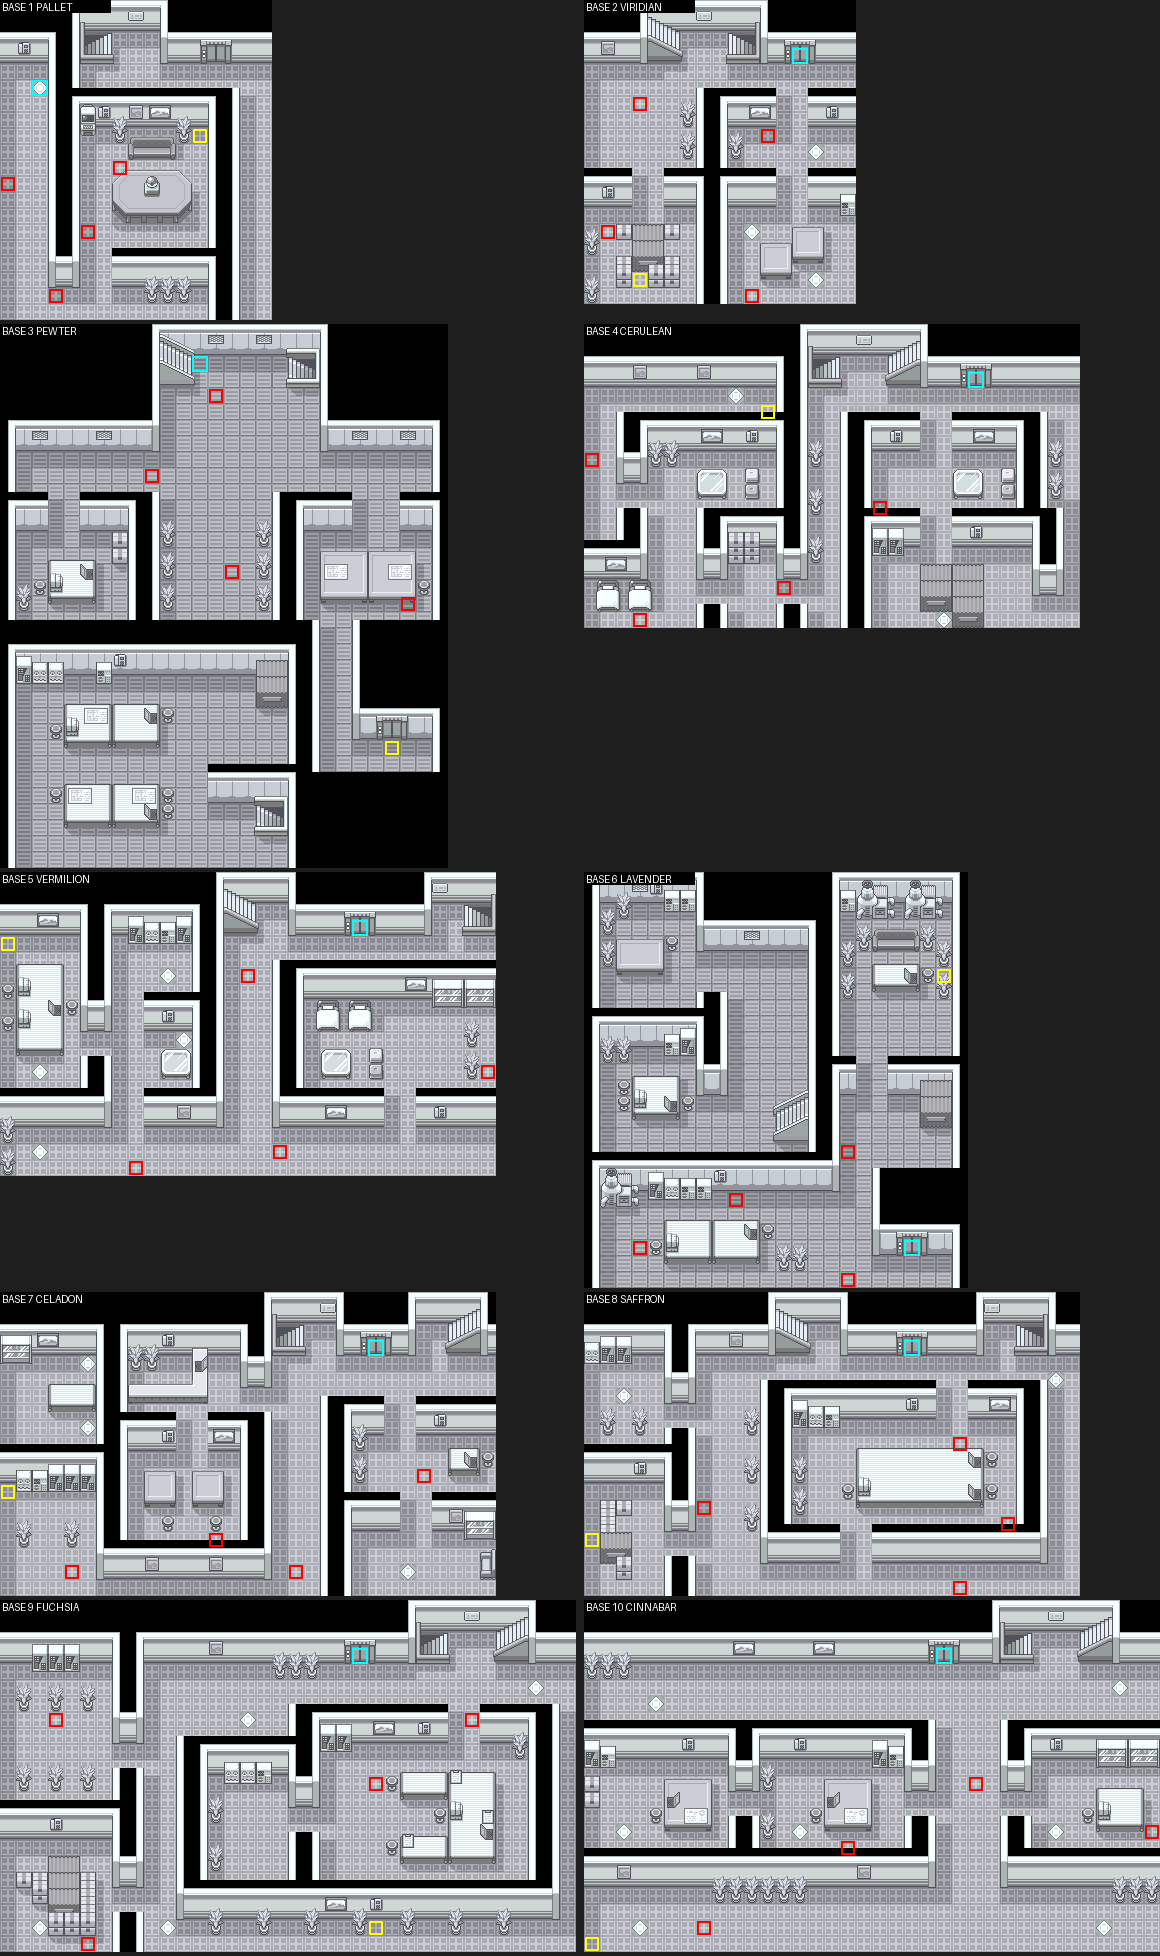
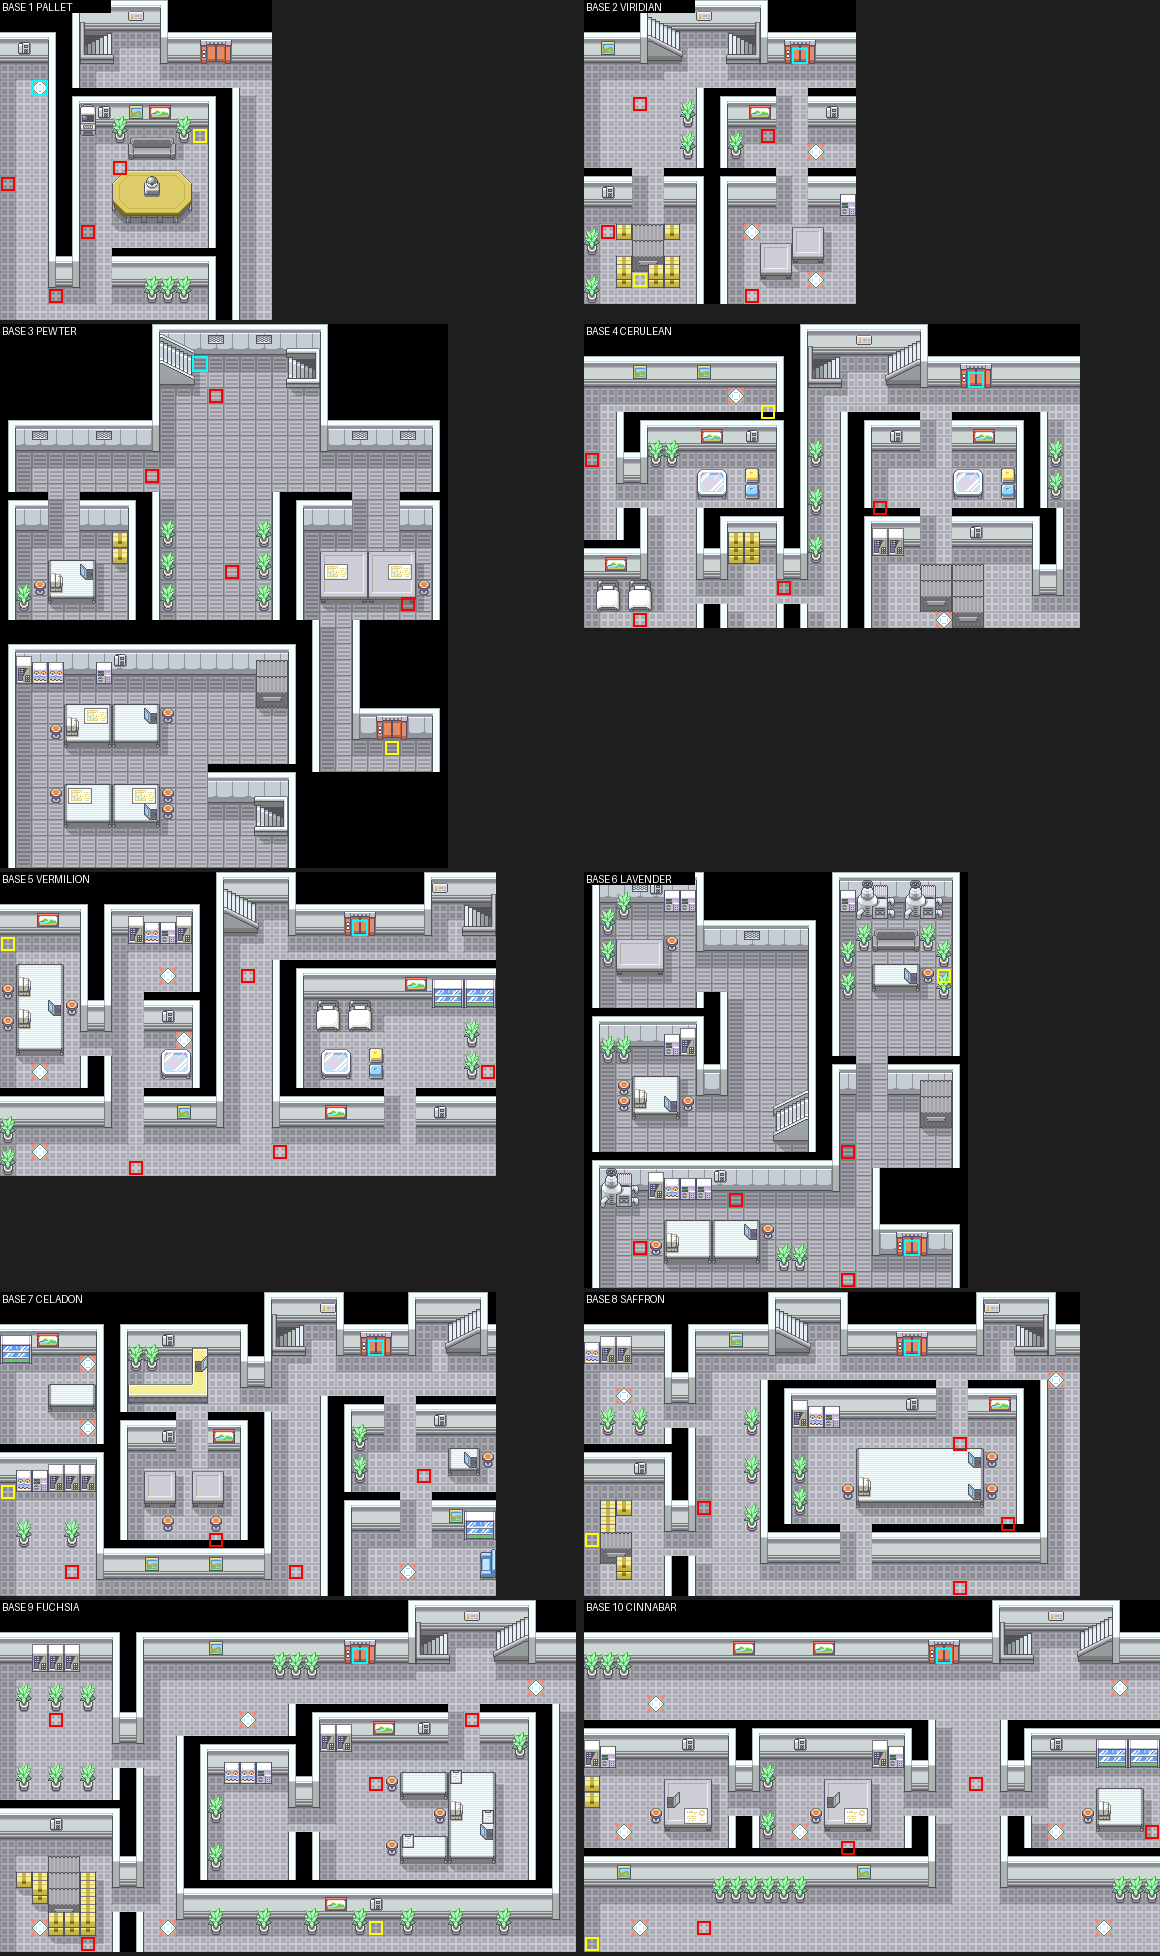
Base interiors: only floor and wall tiles are grey, objects keep their colours
Claude-Session: https://claude.ai/code/session_015nEfgJT3e5PVbLb1PVBxS1

diff --git a/army/build/army_tail.py b/army/build/army_tail.py
@@ -1,0 +1,232 @@
+# ----------------------------------------------------------------------------------------------- the base interior (grey clone of a Rocket Hideout / Silph Co floor)
+def grey(c):
+    rr,g,b=[v/31 for v in c]; y=0.30*rr+0.59*g+0.11*b
+    return tuple(max(0,min(31,int(round(t*31)))) for t in (y*0.98,y,y*1.03))
+STATE=dict(NL=392,NUM=69,grey={})
+def grey_secondary(r,S):
+    """one shared grey copy of the Hideout / Silph secondary tileset"""
+    if S in STATE['grey']: return STATE['grey'][S]
+    b=r.b; spal=r32(r,S+8)-0x08000000
+    pal=bytearray(b[spal:spal+512])
+    for p in range(7,13):
+        for i in range(1,16):
+            v=struct.unpack('<H',pal[32*p+2*i:32*p+2*i+2])[0]
+            cr,cg,cb=grey((v&31,(v>>5)&31,(v>>10)&31)); pal[32*p+2*i:32*p+2*i+2]=struct.pack('<H',cr|(cg<<5)|(cb<<10))
+    pa=r.alloc(bytes(pal),4)
+    H=bytearray(b[S:S+24]); H[8:12]=struct.pack('<I',0x08000000+pa); sec=r.alloc(bytes(H),4)
+    STATE['grey'][S]=sec; return sec
+def grey_primary(r,P):
+    """shared grey copy of the indoor primary tileset (palettes 0-6), so elevator doors, plants and the like are grey too"""
+    key=('P',P)
+    if key in STATE['grey']: return STATE['grey'][key]
+    b=r.b; pp=r32(r,P+8)-0x08000000
+    pal=bytearray(b[pp:pp+7*32])
+    for p in range(7):
+        for i in range(1,16):
+            v=struct.unpack('<H',pal[32*p+2*i:32*p+2*i+2])[0]
+            cr,cg,cb=grey((v&31,(v>>5)&31,(v>>10)&31)); pal[32*p+2*i:32*p+2*i+2]=struct.pack('<H',cr|(cg<<5)|(cb<<10))
+    pa=r.alloc(bytes(pal),4)
+    H=bytearray(b[P:P+24]); H[8:12]=struct.pack('<I',0x08000000+pa); new=r.alloc(bytes(H),4)
+    STATE['grey'][key]=new; return new
+def build_base_map(r,src_n,objects,warps,mapsec,name):
+    b=r.b
+    src=header(r,1,src_n); slay=r32(r,src)-0x08000000
+    S=r32(r,slay+20)-0x08000000
+    sec=grey_secondary(r,S)
+    lay=bytearray(b[slay:slay+28]); lay[20:24]=struct.pack('<I',0x08000000+sec); assert bytes(lay[24:26])==bytes([2,2]),lay[24:28].hex()
+    lay=r.alloc(bytes(lay),4)
+    ob=b''.join(bytes(t) for t in objects); oa=r.alloc(ob,4)
+    wb=b''.join(struct.pack('<hhBBBB',*w) for w in warps); wa=r.alloc(wb,4)
+    ev=r.alloc(bytes([len(objects),len(warps),0,0])+struct.pack('<IIII',0x08000000+oa,0x08000000+wa,0,0),4)
+    ms=r.alloc(b'\x00',1)
+    hb=bytearray(b[src:src+28]); hb[0:4]=struct.pack('<I',0x08000000+lay); hb[4:8]=struct.pack('<I',0x08000000+ev); hb[8:12]=struct.pack('<I',0x08000000+ms); hb[12:16]=bytes(4)
+    LT=r32(r,0x55194)-0x08000000; NL=STATE['NL']
+    for k in (383,391): lp=r32(r,LT+4*k)-0x08000000; assert 4<=r32(r,lp)<=60,k
+    tab=r.alloc(bytes(b[LT:LT+4*NL])+struct.pack('<I',0x08000000+lay),4); r.w32(0x55194,0x08000000+tab)
+    hb[18:20]=struct.pack('<H',NL+1); STATE['NL']=NL+1
+    if STATE['NL']==393: r.w32(0x3f1cac+4*(mapsec-0x58),0x08000000+r.alloc(leg1.enc(name),1))
+    hb[20]=mapsec; hb[0x1a]=100; hb[25]|=0x04
+    hdr=r.alloc(bytes(hb),4)
+    g2=r32(r,GROUPS+8)-0x08000000; num=STATE['NUM']
+    for k in (60,num-1): hp=r32(r,g2+4*k)-0x08000000; assert 0x08000000<=r32(r,hp)<0x0a000000,k
+    ntab=r.alloc(bytes(b[g2:g2+4*num])+struct.pack('<I',0x08000000+hdr),4); r.w32(GROUPS+8,0x08000000+ntab)
+    STATE['NUM']=num+1
+    return 2,num
+def best_entry(r,src_n):
+    """the source warp whose surroundings give the biggest walkable floor: that tile becomes the base's entrance"""
+    import reach
+    d=bytes(r.b); h=header(r,1,src_n); ev=r32(r,h+4)-0x08000000; wp=r32(r,ev+8)-0x08000000
+    ws=[struct.unpack('<hhBBBB',r.b[wp+8*i:wp+8*i+8])[:2] for i in range(r.b[ev+1])]
+    best=None
+    for w in ws:
+        s,_=reach.reach(d,1,src_n,w)
+        if best is None or len(s)>len(best[1]): best=(w,s)
+    return best[0],ws
+# ----------------------------------------------------------------------------------------------- events helpers
+def add_coord(r,g,n,x,y,script):
+    h=header(r,g,n); ev=r32(r,h+4)-0x08000000; nc=r.b[ev+2]
+    old=b''
+    if nc: cp=r32(r,ev+12)-0x08000000; old=bytes(r.b[cp:cp+16*nc])
+    new=r.alloc(old+struct.pack('<HHBBHHHI',x,y,3,0,0x40E3,0,0,script),4); r.b[ev+2]=nc+1; r.w32(ev+12,0x08000000+new)   # var 0x40E3 stays 0, so the event always runs (trigger 0 would run the script in the wrong context)
+def door_lock_script(r,item,need):
+    """stepping on the tile in front of the door without the previous base's medal: refused and pushed back"""
+    S=SB(); S.lockall()
+    S.raw(0x47); S._add(struct.pack('<HH',item,1))                  # checkitem
+    S.compare(0x800D,1); S.goto_if(1,'open')
+    S.msg(TXT(r,"The door is locked. A plate beside it reads:\n\nJRA MEDAL %d REQUIRED."%need),4)
+    S.applymovement(0xff,0x08000000+r.alloc(bytes([0x10,0xfe]),1)); S.waitmovement(0xff); S.releaseall(); S.end()
+    S.lab('open'); S.releaseall(); S.end()
+    return 0x08000000+put_script(r,S)
+def patrol_tiles(r,g,n,start,keep_out,k=2,seed='p'):
+    """two open lawn tiles reachable from `start` for the patrol templates (the native moves them to a random spot at every visit anyway)"""
+    import reach,random
+    d=bytes(r.b); seen,(w,h)=reach.reach(d,g,n,start)
+    _,_,grid,beh,objs=reach.load(d,g,n)
+    ok=[p for p in sorted(seen) if 2<=p[0]<w-2 and 2<=p[1]<h-2 and all(((grid[p[1]+j][p[0]+i]>>10)&3)==0 and (grid[p[1]+j][p[0]+i]>>12)==3 for i in (-1,0,1) for j in (-1,0,1))
+        and not any(abs(p[0]-a)<=3 and abs(p[1]-b)<=3 for a,b in keep_out)]
+    rng=random.Random(seed); rng.shuffle(ok); out=[]
+    for p in ok:
+        if all(abs(p[0]-q[0])+abs(p[1]-q[1])>=6 for q in out): out.append(p)
+        if len(out)==k: break
+    assert len(out)==k,'no patrol tiles'
+    return out
+# ----------------------------------------------------------------------------------------------- exterior sites (all bases use the same grey house, grafted into the town's tileset)
+HOUSE=(32,8,5,4)           # Pewter's house (x,y,w,h); door at column 1 of the bottom row
+# bx,by = top left of the house; yg = the approach row below it. ground = tile whose block fills cleared land. carve = corridor rectangles, clear = open land, guards = (x,y,facing), start = a tile on the existing town road
+EXT={
+ 'PALLET':   dict(ext=14,ground=(18,17),carve=[(22,17,36,18)],clear=[(24,12,35,16)],bx=28,by=13,guards=[(27,17,10),(33,17,9)],sign=(34,17),start=(21,17),evac=(12,11)),
+ 'VIRIDIAN': dict(ext=8, ground=(36,14),carve=[(42,20,52,21)],clear=[(42,15,52,19)],bx=45,by=16,guards=[(44,20,10),(50,20,9)],sign=(51,20),start=(41,20)),
+ 'CERULEAN': dict(ext=14,ground=(39,14),carve=[],clear=[(48,13,57,17)],bx=50,by=14,guards=[(49,18,10),(55,18,9)],sign=(56,18),start=(46,18)),
+ 'VERMILION':dict(ext=12,ground=(35,15),carve=[],clear=[(48,13,57,17)],bx=50,by=14,guards=[(49,18,10),(55,18,9)],sign=(56,18),start=(46,18)),
+ 'LAVENDER': dict(ext=14,ground=(20,13),carve=[(22,13,34,14)],clear=[(24,8,34,12)],bx=27,by=9,guards=[(26,13,10),(32,13,9)],sign=(33,13),start=(21,13)),
+ 'CELADON':  dict(ext=12,ground=(46,16),carve=[],clear=[(60,7,70,11)],bx=62,by=8,guards=[(61,12,10),(67,12,9)],sign=(68,12),start=(56,13)),
+ 'SAFFRON':  dict(ext=0, ground=(11,25),carve=[],clear=[],bx=9,by=21,guards=[(10,28,7),(13,26,9)],sign=(9,26),start=(13,27)),
+ 'FUCHSIA':  dict(ext=0, ground=(34,17),carve=[],clear=[],bx=35,by=13,guards=[(34,17,10),(40,17,9)],sign=(33,17),start=(34,18)),
+ 'CINNABAR': dict(ext=0, ground=(11,14),carve=[],clear=[],bx=10,by=16,guards=[(9,20,10),(15,20,9)],sign=(16,20),start=(12,13),insert=(15,10,[14])),
+}
+def carve_exterior(r,c,house):
+    """rebuilds the town map for city c: extension, cleared land, the grafted house, tileset; returns door tile, front tile, door warp index placeholder"""
+    g,n=3,c['town']; e=EXT[c['name']]
+    ts=army_tiles.Tileset(r,g,n)
+    gv=army_sites.get_block(r,g,n,*e['ground'])
+    if e['ext']: army_sites.extend_right(r,g,n,e['ext'])
+    if e.get('insert'): army_sites.insert_rows(r,g,n,*e['insert'])
+    for (x0,y0,x1,y1) in e['carve']+e['clear']: army_sites.fill(r,g,n,x0,y0,x1,y1,gv)
+    if e.get('evac'): ts.evacuate(*e['evac'])
+    slot=ts.free_slot(); assert slot,'no free palette slot in '+c['name']
+    blocks=house.graft(ts,slot)
+    for j,row in enumerate(blocks):
+        for i,v in enumerate(row): army_sites.set_block(r,g,n,e['bx']+i,e['by']+j,v)
+    ts.commit()
+def place_lot_objects(r,c,e,fns,gf,item_by_num,cleared,ids,base_num,base_map):
+    """door warp, lock, guards, sign, patrols in the town map; returns patrol ids"""
+    g,n=3,c['town']; G_SOLDIER,G_CAPTAIN,G_SPLAT=gf; nm=army_text.SURNAMES[8*c['idx']:8*c['idx']+8]
+    door=(e['bx']+1,e['by']+3); front=(e['bx']+1,e['by']+4)
+    dw=add_warp(r,g,n,door[0],door[1],0,base_num,2)
+    if c['num']>1: add_coord(r,g,n,front[0],front[1],door_lock_script(r,item_by_num[c['num']-1],c['num']-1))
+    guard_ids,pat_ids=ids[7:9],ids[5:7]
+    for k,(gx,gy,mv) in enumerate(e['guards']):
+        a,b,cc=army_text.lines('guard',guard_ids[k],c['name'],c['num'],c['captain'])
+        make_trainer(r,guard_ids[k],CLS_SOLDIER,PIC_SOLDIER,nm[6+k],gen_team(c,'soldier',guard_ids[k]))
+        add_obj(r,g,n,obj_tmpl(G_SOLDIER,gx,gy,soldier_script(r,guard_ids[k],a,b,cc),mv,1,4,cleared))
+    add_sign(r,g,n,e['sign'][0],e['sign'][1],0x3402,"JOHTO REVOLUTIONARY ARMY\nBASE NO. %d\n%s\n\nPEACE THROUGH CONQUEST!"%(c['num'],c['name']))
+    return dw,door,front
+def install_city(r,fns,gf,c,house,item_by_num):
+    import reach
+    b=r.b; idx=c['idx']; ids=ID_POOL[IDS_PER_CITY*idx:IDS_PER_CITY*idx+IDS_PER_CITY]
+    base_ids,cap_id,pat_ids,guard_ids=ids[0:4],ids[4],ids[5:7],ids[7:9]
+    cleared=FLAG_CLEARED0+idx; G_SOLDIER,G_CAPTAIN,G_SPLAT=gf
+    nm=army_text.SURNAMES[8*idx:8*idx+8]; g,n=3,c['town']
+    medal_name='JRA MEDAL %d'%c['num']
+    nxt=[x['name'] for x in CITIES if x['num']==c['num']+1]; nxt=nxt[0] if nxt else None
+    # trainers
+    for k,tid in enumerate(base_ids): make_trainer(r,tid,CLS_SOLDIER,PIC_SOLDIER,nm[k],gen_team(c,'soldier',tid))
+    make_trainer(r,cap_id,CLS_CAPTAIN,PIC_CAPTAIN,c['captain'],gen_team(c,'captain',cap_id))
+    for k,tid in enumerate(pat_ids): make_trainer(r,tid,CLS_SOLDIER,PIC_SOLDIER,nm[4+k],gen_team(c,'soldier',tid))
+    base_sc=[soldier_script(r,base_ids[i],*army_text.lines('base',base_ids[i],c['name'],c['num'],c['captain'])) for i in range(4)]
+    ci,cd,cw,ca=army_text.captain_lines(c['name'],c['captain'],c['num'],nxt)
+    cap_sc=captain_script(r,cap_id,cleared,c['item'],ci,cd,cw,ca,medal_name,c['name'])
+    pat_sc=[soldier_script(r,pat_ids[i],*army_text.lines('pat',pat_ids[i],c['name'],c['num'],c['captain'])) for i in range(2)]
+    # interior
+    if c['name']=='PEWTER':
+        objs=[obj_tmpl(G_SOLDIER,13,4,base_sc[0],8,1,4,cleared),obj_tmpl(G_SOLDIER,9,9,base_sc[1],10,1,4,cleared),
+              obj_tmpl(G_SOLDIER,14,15,base_sc[2],8,1,4,cleared),obj_tmpl(G_SOLDIER,25,17,base_sc[3],9,1,4,cleared),
+              obj_tmpl(G_CAPTAIN,24,26,cap_sc,9,1,4,cleared)]
+        entry=(12,2); warps_src=[(12,2)]
+    else:
+        entry,warps_src=best_entry(r,c['src'])
+        sold,cap=army_sites.plan_interior(bytes(r.b),1,c['src'],entry,warps_src,4,c['name'])
+        objs=[obj_tmpl(G_SOLDIER,p[0],p[1],base_sc[i],mv,1,4,cleared) for i,(p,mv) in enumerate(sold)]+[obj_tmpl(G_CAPTAIN,cap[0][0],cap[0][1],cap_sc,cap[1],1,4,cleared)]
+    for i,t in enumerate(objs): t[0]=i+1
+    # town door warp index is known before the map: it is the next warp index of the town
+    ph=header(r,g,n); pev=r32(r,ph+4)-0x08000000; DW=r.b[pev+1]
+    bg,bn=build_base_map(r,c['src'],objs,[(entry[0],entry[1],0,DW,n,g)],0xab,'JRA MILITARY BASE')
+    # the town
+    e=EXT.get(c['name'])
+    if c['name']=='PEWTER':
+        ts=army_tiles.Tileset(r,3,2); slot=ts.free_slot(); blocks=house.graft(ts,slot)
+        for j,row in enumerate(blocks):
+            for i,v in enumerate(row): army_sites.set_block(r,3,2,33+i,2+j,v)
+        army_tiles.recolor_brown(ts,[8,9]); ts.commit()
+        e=dict(bx=33,by=2,guards=[(33,6,10),(38,6,9)],sign=(39,6),start=(24,36))
+    else:
+        carve_exterior(r,c,house)
+    dw,door,front=place_lot_objects(r,c,e,None,gf,item_by_num,cleared,ids,bn,bg)
+    assert dw==DW,(dw,DW)
+    keep=[door,front,e['sign']]+[(x,y) for x,y,_ in e['guards']]
+    if c['name']=='PEWTER': pts=[(27,22),(30,15)]
+    else: pts=patrol_tiles(r,g,n,e['start'],keep,2,c['name'])
+    for sc,pos in zip(pat_sc,pts): add_obj(r,g,n,obj_tmpl(G_SOLDIER,pos[0],pos[1],sc,1,1,4,cleared))
+    # reachability
+    seen,_=reach.reach(bytes(r.b),bg,bn,entry)
+    for t in objs:
+        x,y=struct.unpack('<hh',bytes(t[4:8])); assert any((x+dx,y+dy) in seen for dx,dy in ((1,0),(-1,0),(0,1),(0,-1))),('base object not reachable',c['name'],x,y)
+    seen,_=reach.reach(bytes(r.b),g,n,e['start'])
+    assert front in seen,('base door not reachable',c['name'],front)
+    if e.get('ext'):
+        W,_=army_sites.dims(r,g,n)
+        assert any((W-1,yy) in seen for yy in range(0,40)) or c['name'] in ('PALLET','VIRIDIAN','LAVENDER','SAFFRON'),'east exit lost'
+    return dict(pat_ids=pat_ids,cleared=cleared,victims=VICTIM_VARS[idx])
+# ----------------------------------------------------------------------------------------------- main
+if __name__=='__main__':
+    import qconsts
+    r=Rom(sys.argv[1]); b=r.b
+    FLAGS,VARS,ITEMS=qconsts.consts()
+    g_soldier=army_gfx.add_remapped(r,49,SOLDIER_MAP); g_captain=army_gfx.add_remapped(r,82,CAPTAIN_MAP,fn=captain_frame); g_splat=add_alias_gfx(r,0x98)
+    print('gfx',hex(g_soldier),hex(g_captain),hex(g_splat))
+    assert (g_soldier,g_captain,g_splat)==(0x9f,0xa0,0xa1)
+    surge_pic=b[T+40*416+3]
+    pic_from_png(r,PIC_SOLDIER,W+'/soldier_pic.png')          # supplied soldier picture
+    alloc_trainer_pic(r,PIC_CAPTAIN,surge_pic,lambda c: ramp(c,'captain'),captain_pupil)
+    rename_class(r,CLS_SOLDIER,'JRA SOLDIER'); rename_class(r,CLS_CAPTAIN,'JRA CAPTAIN'); rename_class(r,CLS_GENERAL,'JRA GENERAL')
+    item_by_num={}
+    for c in CITIES:
+        add_medal(r,c['item'],'JRA MEDAL %d'%c['num'],'A medal taken from CAPT.\n%s of the JRA.'%c['captain'],ITEMS['ITEM_OLD_AMBER']); item_by_num[c['num']]=c['item']
+    # collision: the army splatter never blocks (same exemption as the player's splatter and story bodies)
+    code=r.asm('ldrb r0,[r2,#5]\ncmp r0,#%d\nbeq exempt\nsubs r0,#0x98\ncmp r0,#1\nbhi normal\nexempt:\nldr r0,=0x0806396d\nbx r0\nnormal:\nldrb r0,[r6,#0xb]\nlsls r0,r0,#0x1c\nbx lr\n'%g_splat,0x3b2300)
+    r.put(0x3b2300,code)
+    h1,h2=struct.unpack('<HH',b[0x6394c:0x63950]); off=((h1&0x7FF)<<12)|((h2&0x7FF)<<1)
+    assert 0x6394c+4+off==0x3af2b8
+    r.bl(0x6394c,0x3b2300)
+    # natives: the army splat script address lives in a ROM slot written after the script exists (breaks the script <-> native address cycle)
+    slot=r.alloc(b'\xff'*4,4); old_apply=r32(r,0xa09824)
+    pat=[]
+    for c in CITIES:
+        for tid in ID_POOL[IDS_PER_CITY*c['idx']+5:IDS_PER_CITY*c['idx']+7]: pat.append((tid,FLAG_CLEARED0+c['idx'],VICTIM_VARS[c['idx']]))
+    reasons=[etxt(s_) for s_ in REASONS]
+    h='#define GFX_SOLDIER %d\n#define GFX_ARMY_SPLAT %d\n#define SPLAT_SLOT 0x%08x\n#define OLD_APPLY 0x%08x\n#define MAX_VICTIMS %d\n'%(g_soldier,g_splat,0x08000000+slot,old_apply,MAX_VICTIMS)
+    h+='#define NPAT %d\nstatic const unsigned short PAT_ID[]={%s};\nstatic const unsigned short PAT_CLEARED[]={%s};\nstatic const unsigned short PAT_VICTIMS[]={%s};\n'%(len(pat),','.join(str(p_[0]) for p_ in pat),','.join(str(p_[1]) for p_ in pat),','.join(str(p_[2]) for p_ in pat))
+    h+='#define NREASONS %d\n'%len(reasons)+''.join('static const unsigned char R%d[]={%s};\n'%(i_,','.join(map(str,x))) for i_,x in enumerate(reasons))+'static const unsigned char* const REASONS[]={%s};\n'%','.join('R%d'%i_ for i_ in range(len(reasons)))
+    fns=build_native(r,h)
+    r.w32(slot,splat_script(r,fns))
+    # the grey house, read from Pewter's original tileset before anything is recoloured
+    house=army_tiles.House(army_tiles.Tileset(r,3,2),HOUSE)
+    order=[c for c in CITIES if c['name']=='PEWTER']+[c for c in CITIES if c['name']!='PEWTER']
+    for c in order:
+        info=install_city(r,fns,(g_soldier,g_captain,g_splat),c,house,item_by_num)
+        print('installed',c['name'],'base map',STATE['NUM']-1,'ids',info['pat_ids'])
+    json.dump([dict(name=c['name'],num=c['num'],idx=c['idx'],captain=c['captain'],flag=FLAG_CLEARED0+c['idx'],item=c['item'],cap=c['cap']) for c in CITIES],open(W+'/cities.json','w'))
+    # hook: the map-load pass now runs the old one (police, shot trainers) and then the army pass
+    assert b[0xa0981c:0xa09824]==bytes.fromhex('014b1847c046c046')
+    r.w32(0xa09824,fns['army_entry'])
+    r.save(sys.argv[2]); print('ok end',hex(r.cur))

diff --git a/army/build/army.py b/army/build/army.py
@@ -258,8 +258,7 @@ def build_base_map(r,src_n,objects,warps,mapsec,name):
     src=header(r,1,src_n); slay=r32(r,src)-0x08000000
     S=r32(r,slay+20)-0x08000000
     sec=grey_secondary(r,S)
-    P=r32(r,slay+16)-0x08000000; prim=grey_primary(r,P)
-    lay=bytearray(b[slay:slay+28]); lay[16:20]=struct.pack('<I',0x08000000+prim); lay[20:24]=struct.pack('<I',0x08000000+sec); assert bytes(lay[24:26])==bytes([2,2]),lay[24:28].hex()
+    lay=bytearray(b[slay:slay+28]); lay[20:24]=struct.pack('<I',0x08000000+sec); assert bytes(lay[24:26])==bytes([2,2]),lay[24:28].hex()
     lay=r.alloc(bytes(lay),4)
     ob=b''.join(bytes(t) for t in objects); oa=r.alloc(ob,4)
     wb=b''.join(struct.pack('<hhBBBB',*w) for w in warps); wa=r.alloc(wb,4)
